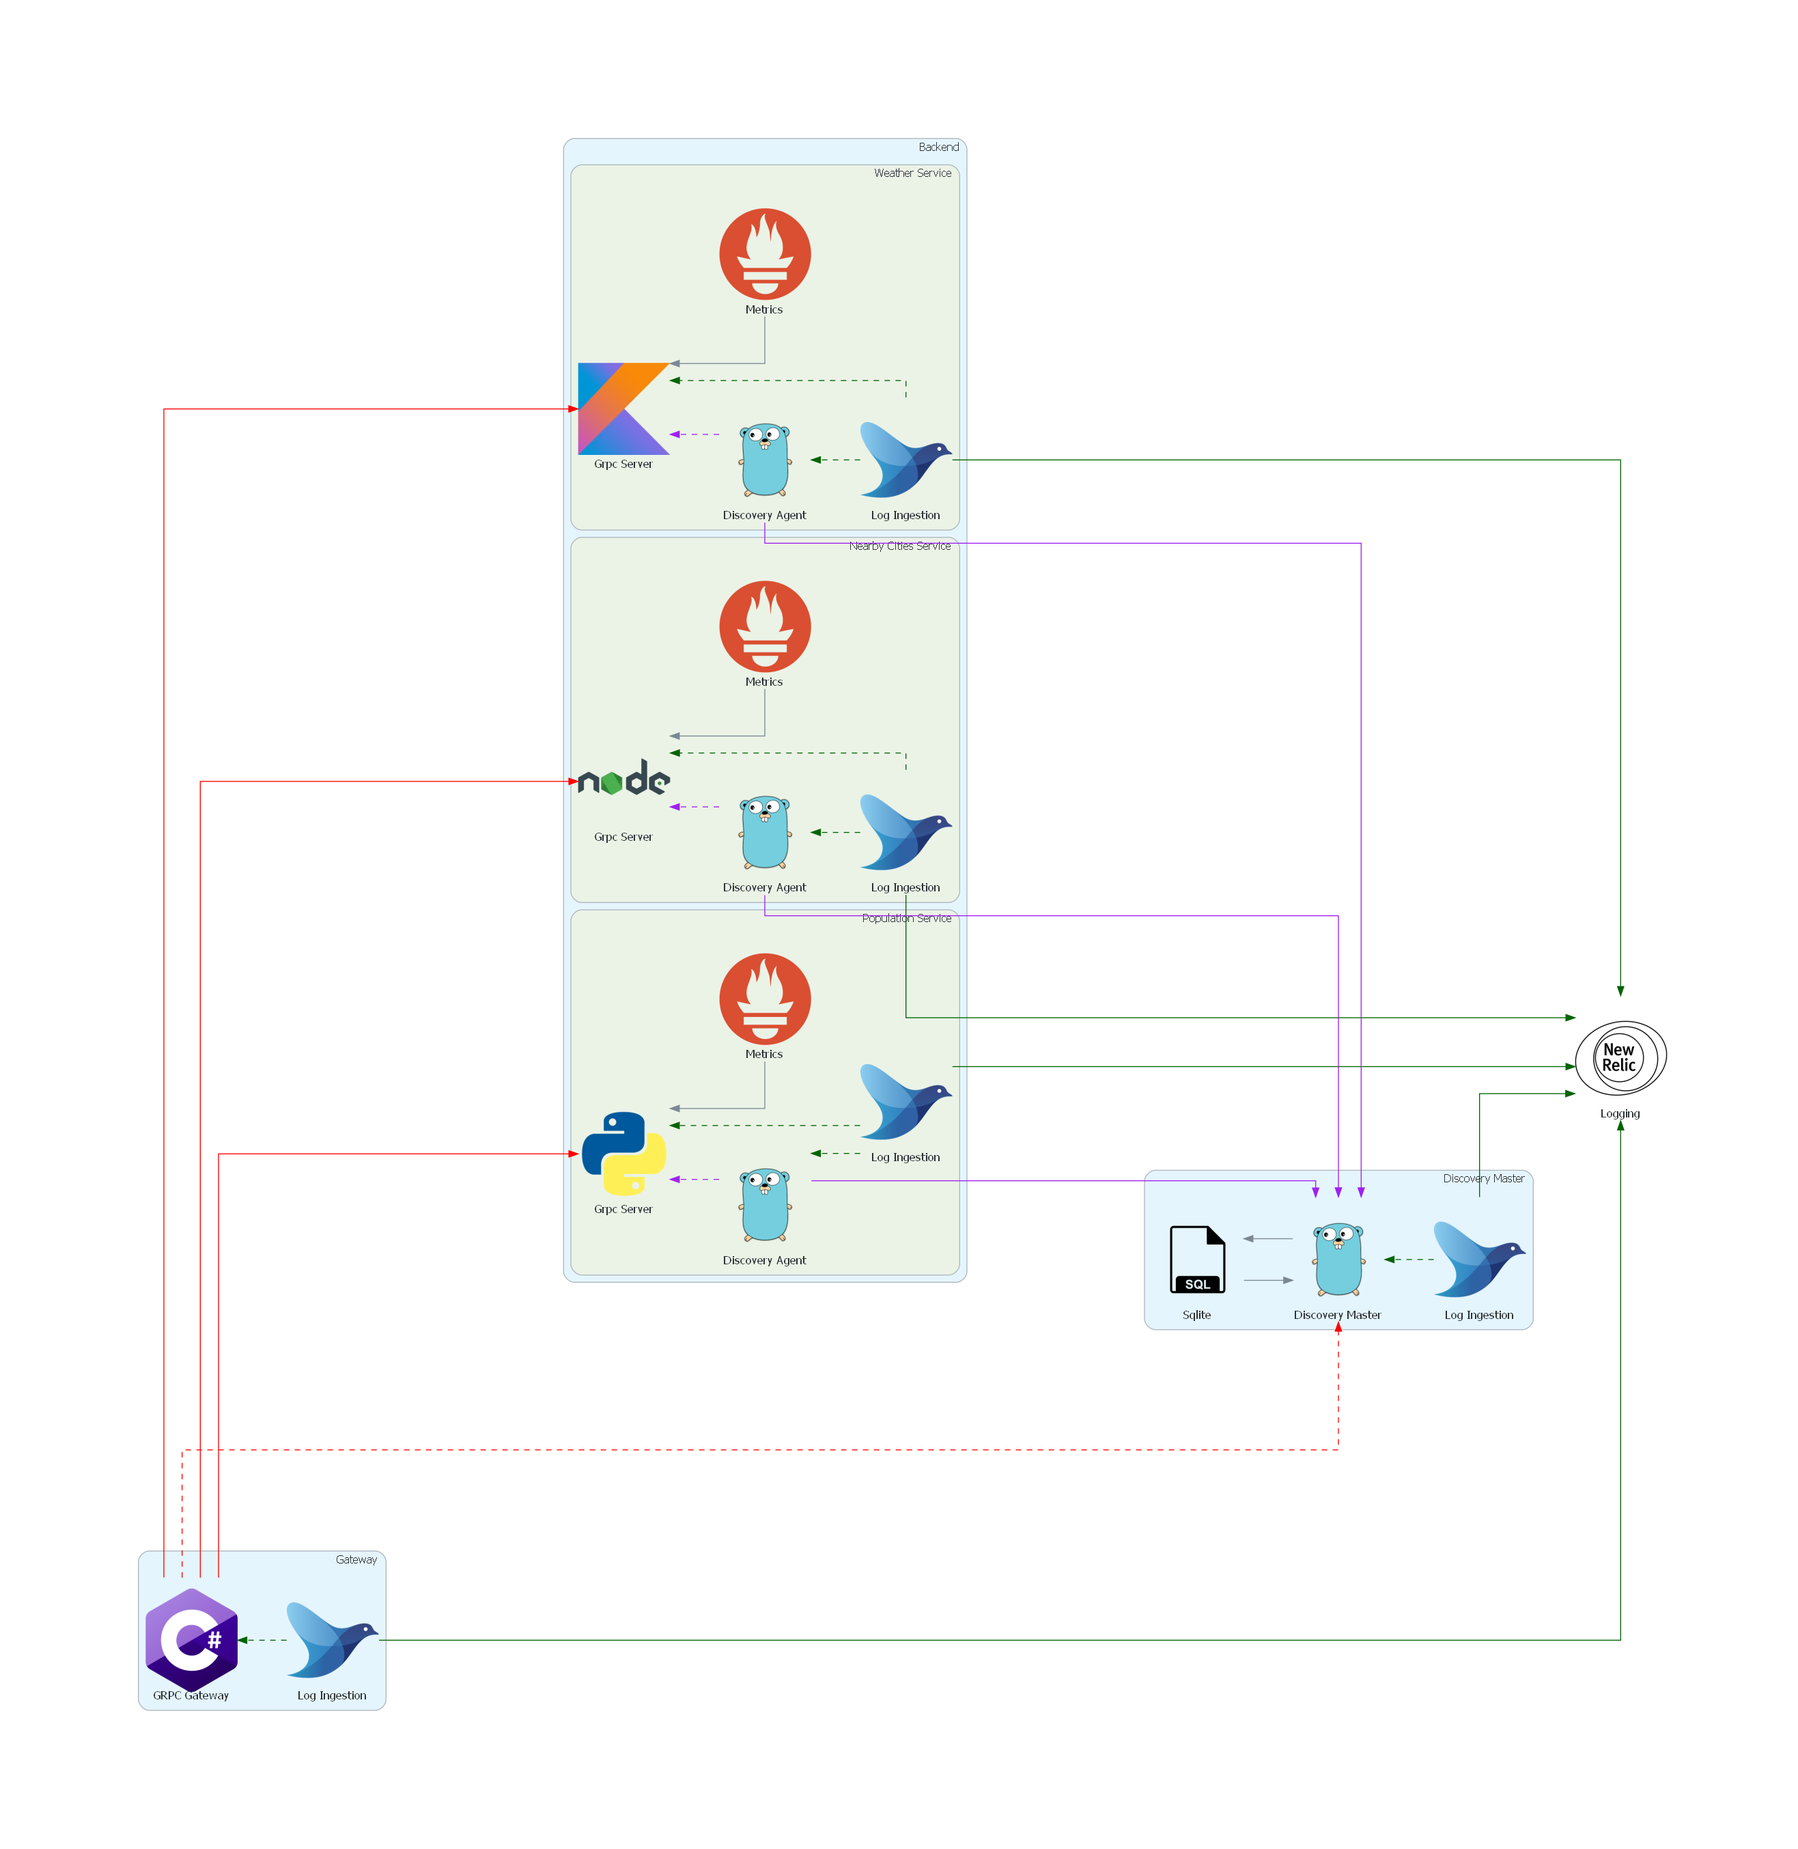
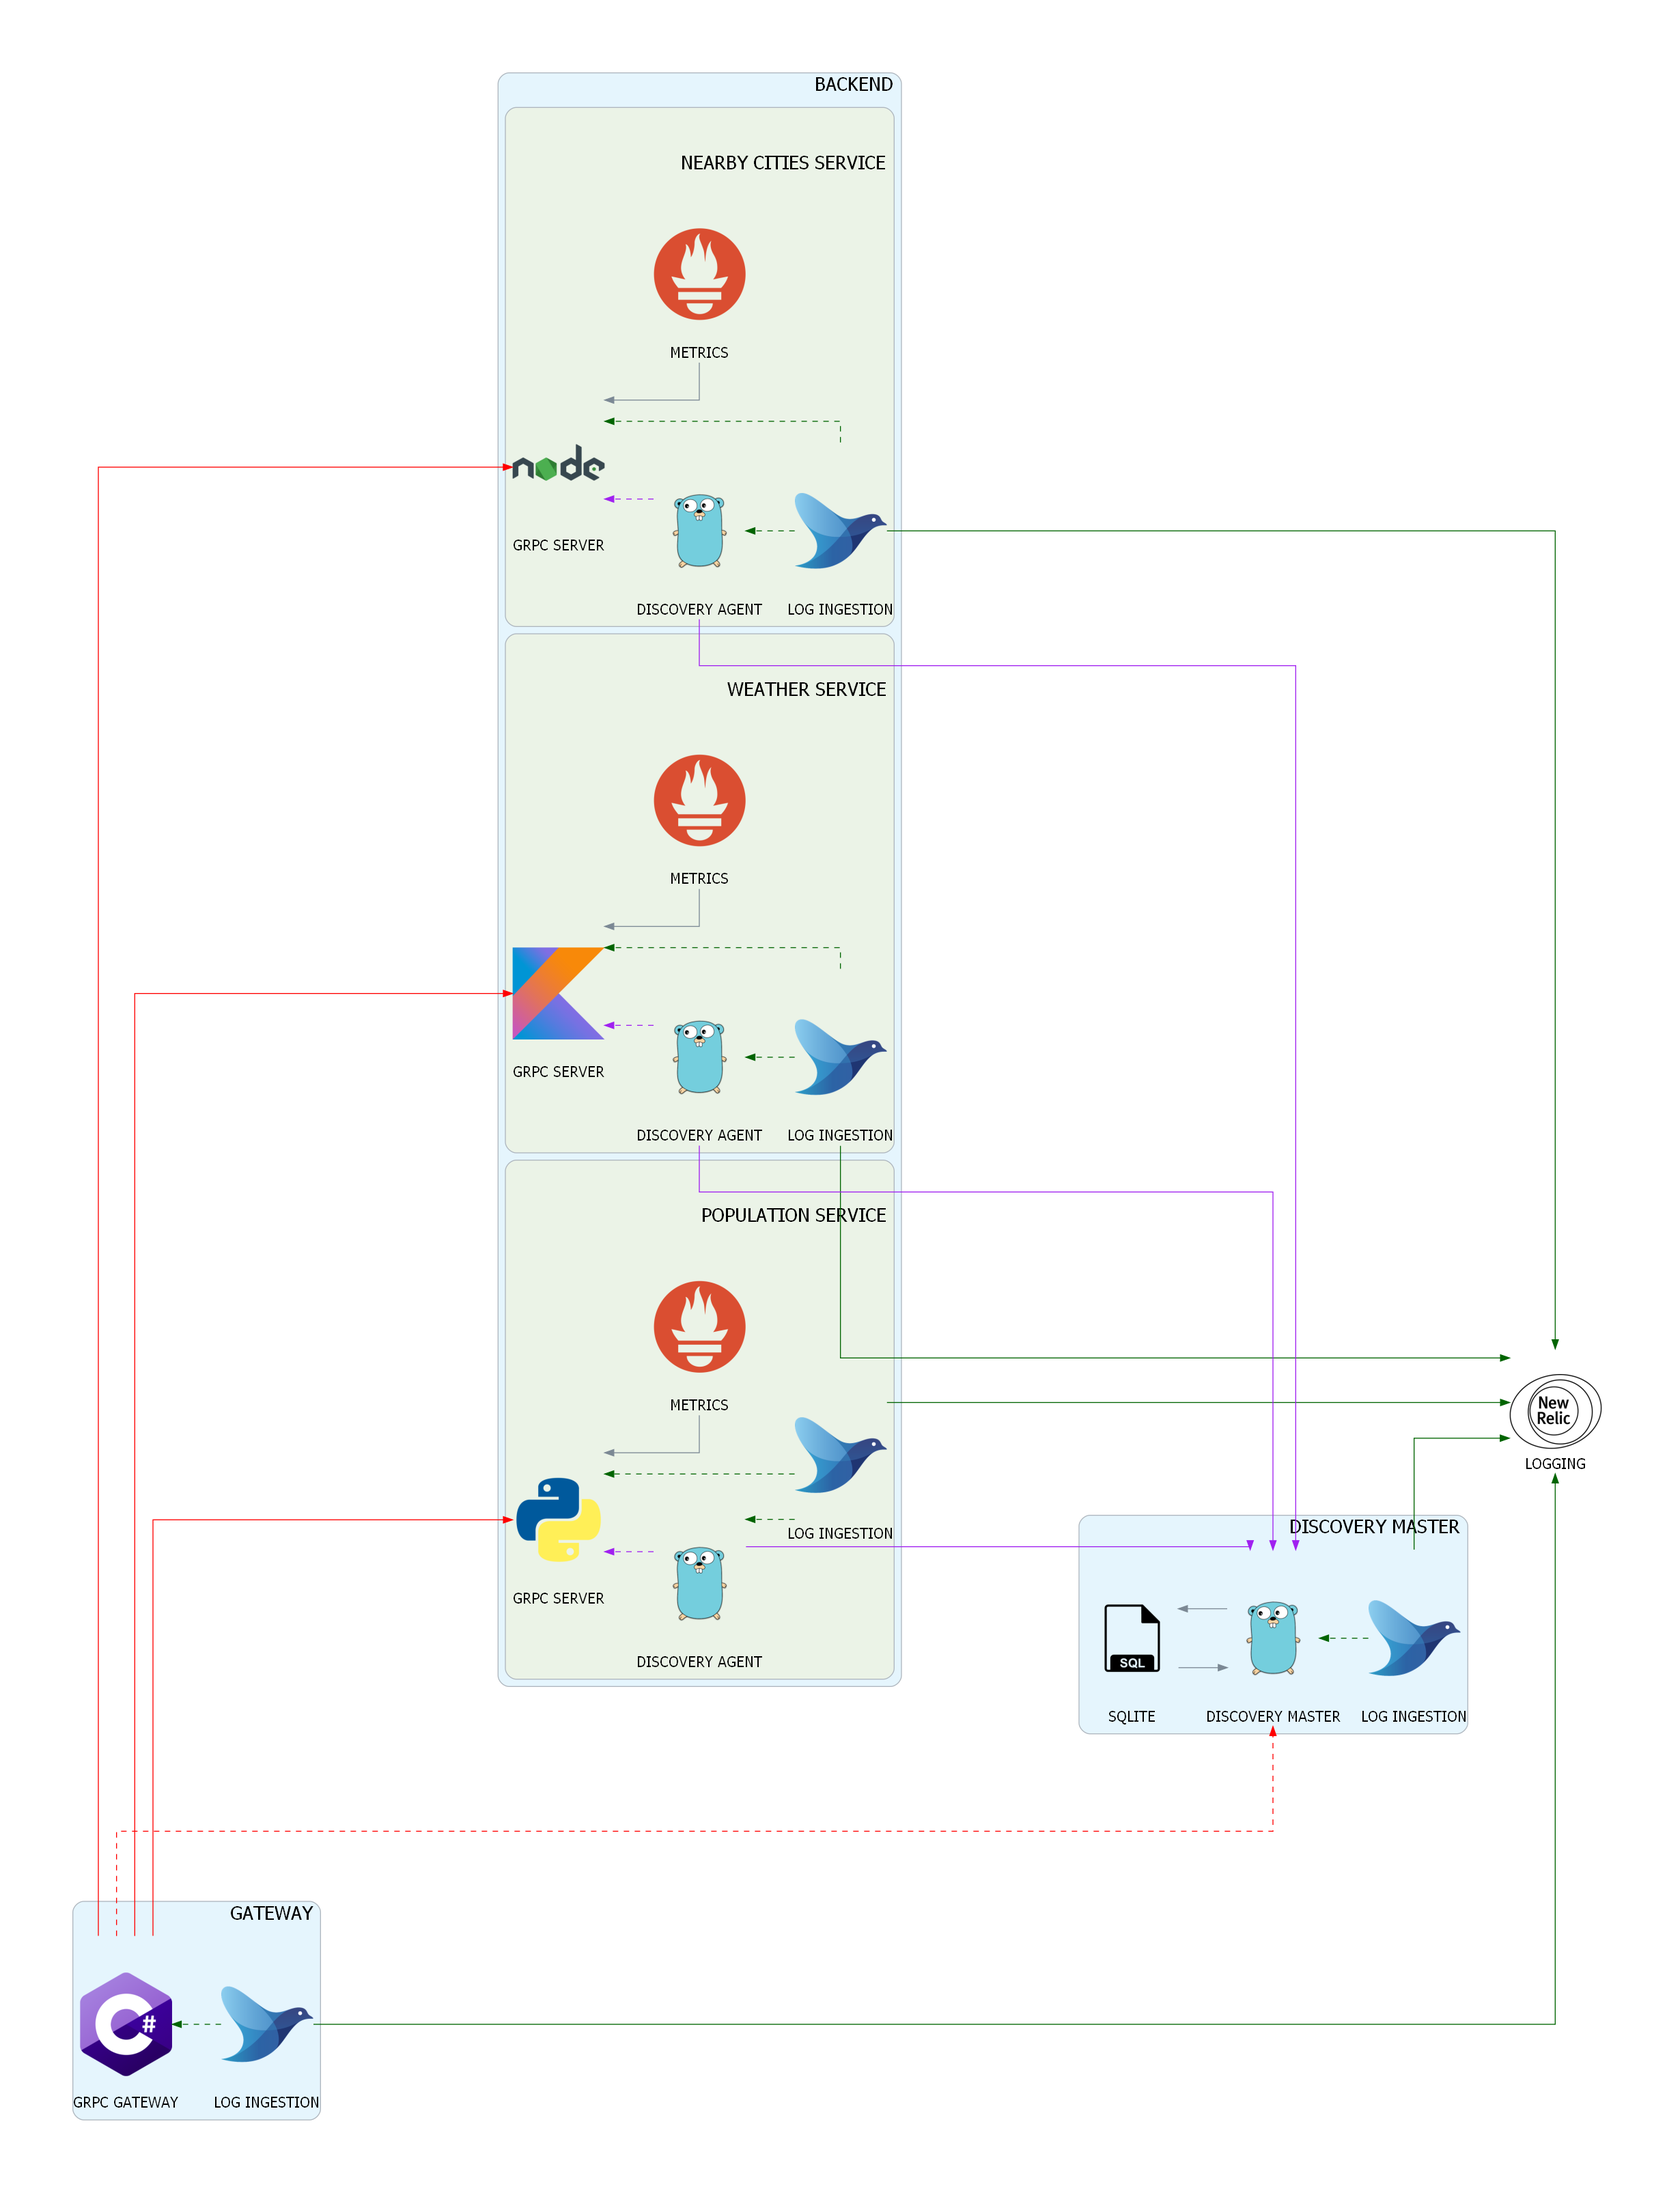
Documentation v2 (#19)
* Improve readability of diagram

* fix: typos

* Add more sections on README

* fix: typo

diff --git a/docs/general_diagram.py b/docs/general_diagram.py
@@ -1,41 +1,61 @@
-from turtle import width
 from diagrams import Cluster, Diagram, Edge
 from diagrams.programming.language import Go, Csharp, Python, NodeJS, Kotlin
 from diagrams.onprem.aggregator import Fluentd
 from diagrams.onprem.monitoring import Prometheus
 from diagrams.generic.database import SQL
 from diagrams.saas.alerting import Newrelic
-from diagrams.onprem.client import Client
 import types
 
+graph_attrs = {
+    "pad": "1.0",
+    "splines": "ortho",
+    "nodesep": "0.60",
+    "ranksep": "0.75",
+    "fontname": "Sans-Serif",
+    "fontsize": "20",
+    "fontcolor": "black",
+}
 
-with Diagram("", show=True, direction= "RL"):
+node_attrs = {
+    "shape": "box",
+    "style": "rounded",
+    "fixedsize": "true",
+    "width": "1.4",
+    "height": "1.4",
+    "labelloc": "b",
+    "imagescale": "true",
+    "fontname": "Sans-Serif",
+    "fontsize": "16",
+    "fontcolor": "black",
+}
+
+with Diagram("", show=True, direction= "RL", graph_attr=graph_attrs, node_attr=node_attrs):
     
-    new_relic = Newrelic("Logging")
+    new_relic = Newrelic("LOGGING")
 
-    with Cluster("Discovery Master"):
-        discovery_master = Go("Discovery Master")
-        sqllite = SQL("Sqlite")
+    with Cluster("DISCOVERY MASTER", graph_attr=graph_attrs):
+        discovery_master = Go("\n\nDISCOVERY MASTER")
+        sqllite = SQL("\n\nSQLITE")
         discovery_master >> sqllite >> discovery_master
-        new_relic << Edge(color="darkgreen") << Fluentd("Log Ingestion") >> Edge(color="darkgreen", style="dashed") >> discovery_master
+        new_relic << Edge(color="darkgreen") << Fluentd("\n\nLOG INGESTION") >> Edge(color="darkgreen", style="dashed") >> discovery_master
 
-    with Cluster("Gateway"):
-        gateway = Csharp("GRPC Gateway") 
-        new_relic << Edge(color="darkgreen") << Fluentd("Log Ingestion") >> Edge(color="darkgreen", style="dashed") >> gateway
+    with Cluster("GATEWAY", graph_attr=graph_attrs):
+        gateway = Csharp("\n\nGRPC GATEWAY") 
+        new_relic << Edge(color="darkgreen") << Fluentd("\n\nLOG INGESTION") >> Edge(color="darkgreen", style="dashed") >> gateway
         gateway >> Edge(color="red", style="dashed") >> discovery_master
 
 
-    with Cluster("Backend"):
-        services = [types.SimpleNamespace(name = 'Population', language = Python), 
-                    types.SimpleNamespace(name = 'Nearby Cities', language = NodeJS), 
-                    types.SimpleNamespace(name = 'Weather', language = Kotlin)]
+    with Cluster("BACKEND", graph_attr=graph_attrs):
+        services = [types.SimpleNamespace(name = 'POPULATION', language = Python), 
+                    types.SimpleNamespace(name = 'NEARBY CITIES', language = NodeJS), 
+                    types.SimpleNamespace(name = 'WEATHER', language = Kotlin)]
 
         for svc in services:
-            with Cluster("{} Service".format(svc.name)):
-                logger = Fluentd("Log Ingestion")
-                discovery_agent = Go("Discovery Agent")
-                service = svc.language("Grpc Server")        
-                Prometheus("Metrics") >> service
+            with Cluster("\n\n{} SERVICE".format(svc.name), graph_attr=graph_attrs):
+                logger = Fluentd("\n\nLOG INGESTION")
+                discovery_agent = Go("\n\nDISCOVERY AGENT")
+                service = svc.language("\n\nGRPC SERVER")        
+                Prometheus("\n\nMETRICS") >> service
                 new_relic << Edge(color="darkgreen") << logger >> Edge(color="darkgreen", style="dashed") >> service
                 discovery_master << Edge(color="purple", minlen="6") << discovery_agent >> Edge(color="purple", style="dashed") >> service
                 service << Edge(color="red", minlen="5") << gateway

diff --git a/README.md b/README.md
@@ -1,11 +1,14 @@
 # gRPC Microservices
 ## Overview
+
+Deployed to [Oketo](https://www.okteto.com/) -> [https://grpc-ui-gbauso.cloud.okteto.net](https://grpc-ui-gbauso.cloud.okteto.net/)
+
 This project is a POC of the [API Composition Pattern](https://microservices.io/patterns/data/api-composition.html) but using gRPC, the idea is having the same proto file implemented in different services (micro or nano) and each service returns a piece of the information to the gateway.
 
 ### Gateway  
-![plot](./docs/sequence_diagram.svg)
+![gateway](./docs/sequence_diagram.svg)
 ### Discovery Service  
-![plot](./docs/discovery_service_sequence_diagram.svg)
+![discovery](./docs/discovery_service_sequence_diagram.svg)
 
 ## Stack
 
@@ -17,6 +20,81 @@ In order to prove this concept, a set of tools and languages were chosen:
 * gRPC Gateway (aka City Information Service): gRPC server written in C# and contains the implementation of the gRPC composition and calls the Discovery Master and afterwards the involved services.
 * Nearby Cities Service: Service written in Node (using TypeScript) and contains the implementation of [cityinformation.CityService](https://github.com/gbauso/contract/blob/master/cityinformation.proto#L17) plus [grpc.health.v1.Health](https://github.com/grpc/grpc/blob/master/src/proto/grpc/health/v1/health.proto) and [grpc.reflection.v1alpha.ServerReflection](https://github.com/grpc/grpc/blob/master/src/proto/grpc/reflection/v1alpha/reflection.proto). Data Source: [nearby-cities NPM Package](https://www.npmjs.com/package/nearby-cities)
 * Population Service: gRPC server written in Python and contains the implementation of [cityinformation.CityService](https://github.com/gbauso/contract/blob/master/cityinformation.proto#L18) plus [grpc.health.v1.Health](https://github.com/grpc/grpc/blob/master/src/proto/grpc/health/v1/health.proto) and [grpc.reflection.v1alpha.ServerReflection](https://github.com/grpc/grpc/blob/master/src/proto/grpc/reflection/v1alpha/reflection.proto). Data Source: [OpenDataSoft](https://public.opendatasoft.com/explore/dataset/geonames-all-cities-with-a-population-1000/table/?disjunctive.cou_name_en&sort=name)
-* Weather Service: gRPC server written in Kotlin and contains the implementation of [cityinformation.CityService](https://github.com/gbauso/contract/blob/master/cityinformation.proto#L18) plus [grpc.health.v1.Health](https://github.com/grpc/grpc/blob/master/src/proto/grpc/health/v1/health.proto) and [grpc.reflection.v1alpha.ServerReflection](https://github.com/grpc/grpc/blob/master/src/proto/grpc/reflection/v1alpha/reflection.proto). Data Source: [OpenWeather API](https://openweathermap.org/api)
+* Weather Service: gRPC server written in Kotlin and contains the implementation of [cityinformation.CityService](https://github.com/gbauso/contract/blob/master/cityinformation.proto#L19) plus [grpc.health.v1.Health](https://github.com/grpc/grpc/blob/master/src/proto/grpc/health/v1/health.proto) and [grpc.reflection.v1alpha.ServerReflection](https://github.com/grpc/grpc/blob/master/src/proto/grpc/reflection/v1alpha/reflection.proto). Data Source: [OpenWeather API](https://openweathermap.org/api)
 
-![plot](./docs/diagrams_image.png)
+![overview](./docs/diagrams_image.png)
+
+## How to run
+
+### Requirements
+
+* Account in New Relic (Url and API Key needed)
+* Open Weather API Key 
+
+#### Docker Compose
+
+Before run `docker compose up`, it's necessary creating a `.env` file (copying from `.env.example`) and setting values:
+
+* NR_BASE_URL -> New Relic logging base URL -> `e.g https://log-api.eu.newrelic.com/log/v1`
+* NR_API_KEY -> New Relic API Key with permissions for logging
+* OPENWEATHER_APP_ID -> Open Weather API KEY (APP ID)
+
+#### Okteto (K8S)
+
+[![Develop on Okteto](https://okteto.com/develop-okteto.svg)](https://cloud.okteto.com/deploy?repository=https://github.com/gbauso/grpc_microservices)
+
+Before deploying to Okteto, you need to create some secrets (`go to Setting -> Secrets`):
+
+* NR_BASE_URL -> New Relic logging base URL -> `e.g https://log-api.eu.newrelic.com/log/v1`
+* NR_API_KEY -> New Relic API Key with permissions for logging
+* OPENWEATHER_ID -> Open Weather API KEY (APP ID)
+
+<!-- #### Kubernetes (With Istio)
+
+##### Requisites
+
+Kubernetes CLI configured, Helm Charts and Istio installed.
+
+###### Windows
+
+You can find a file called `run.ps1` and follow the example.
+
+`e.g ./run.ps1 $OPENWEATHER_ID $NR_BASE_URL $NR_API_KEY $INSTALL_ISTIO_ADDONS`
+
+* OPENWEATHER_ID -> Open Weather API KEY (APP ID)
+* NR_BASE_URL -> New Relic logging base URL -> `e.g https://log-api.eu.newrelic.com/log/v1`
+* NR_API_KEY -> New Relic API Key with permissions for logging
+* INSTALL_ISTIO_ADDONS -> Install Jaeger, Prometheus, Grafana and Kiali -> Values: 0 or 1
+
+###### Linux/Mac
+
+You can find a file called `run.sh` and follow the example.
+
+`e.g ./run.sh $OPENWEATHER_ID $NR_BASE_URL $NR_API_KEY $INSTALL_ISTIO_ADDONS`
+
+* OPENWEATHER_ID -> Open Weather API KEY (APP ID)
+* NR_BASE_URL -> New Relic logging base URL -> `e.g https://log-api.eu.newrelic.com/log/v1`
+* NR_API_KEY -> New Relic API Key with permissions for logging
+* INSTALL_ISTIO_ADDONS -> Install Jaeger, Prometheus, Grafana and Kiali -> Values: 0 or 1 -->
+
+## Development
+
+Want to contribute? Great!
+
+Start development on this project is simple, fork the project and open it on VSCode or your preferred IDE. It will be a pleasure review your PR.
+
+## Todos
+
+ - [ ] Finish configuration of Istio
+ - [ ] Write Unit tests for the services
+ - [ ] Unify the logs and improve readability
+ - [ ] Move metrics from Prometheus to New Relic
+ - [ ] Move from Azure Pipelines to Github Actions
+ - [ ] Cover Server Stream, Client Stream and Bidirection on Gateway
+ - [ ] SSL on gRPC servers
+
+
+License
+----
+
+MIT
